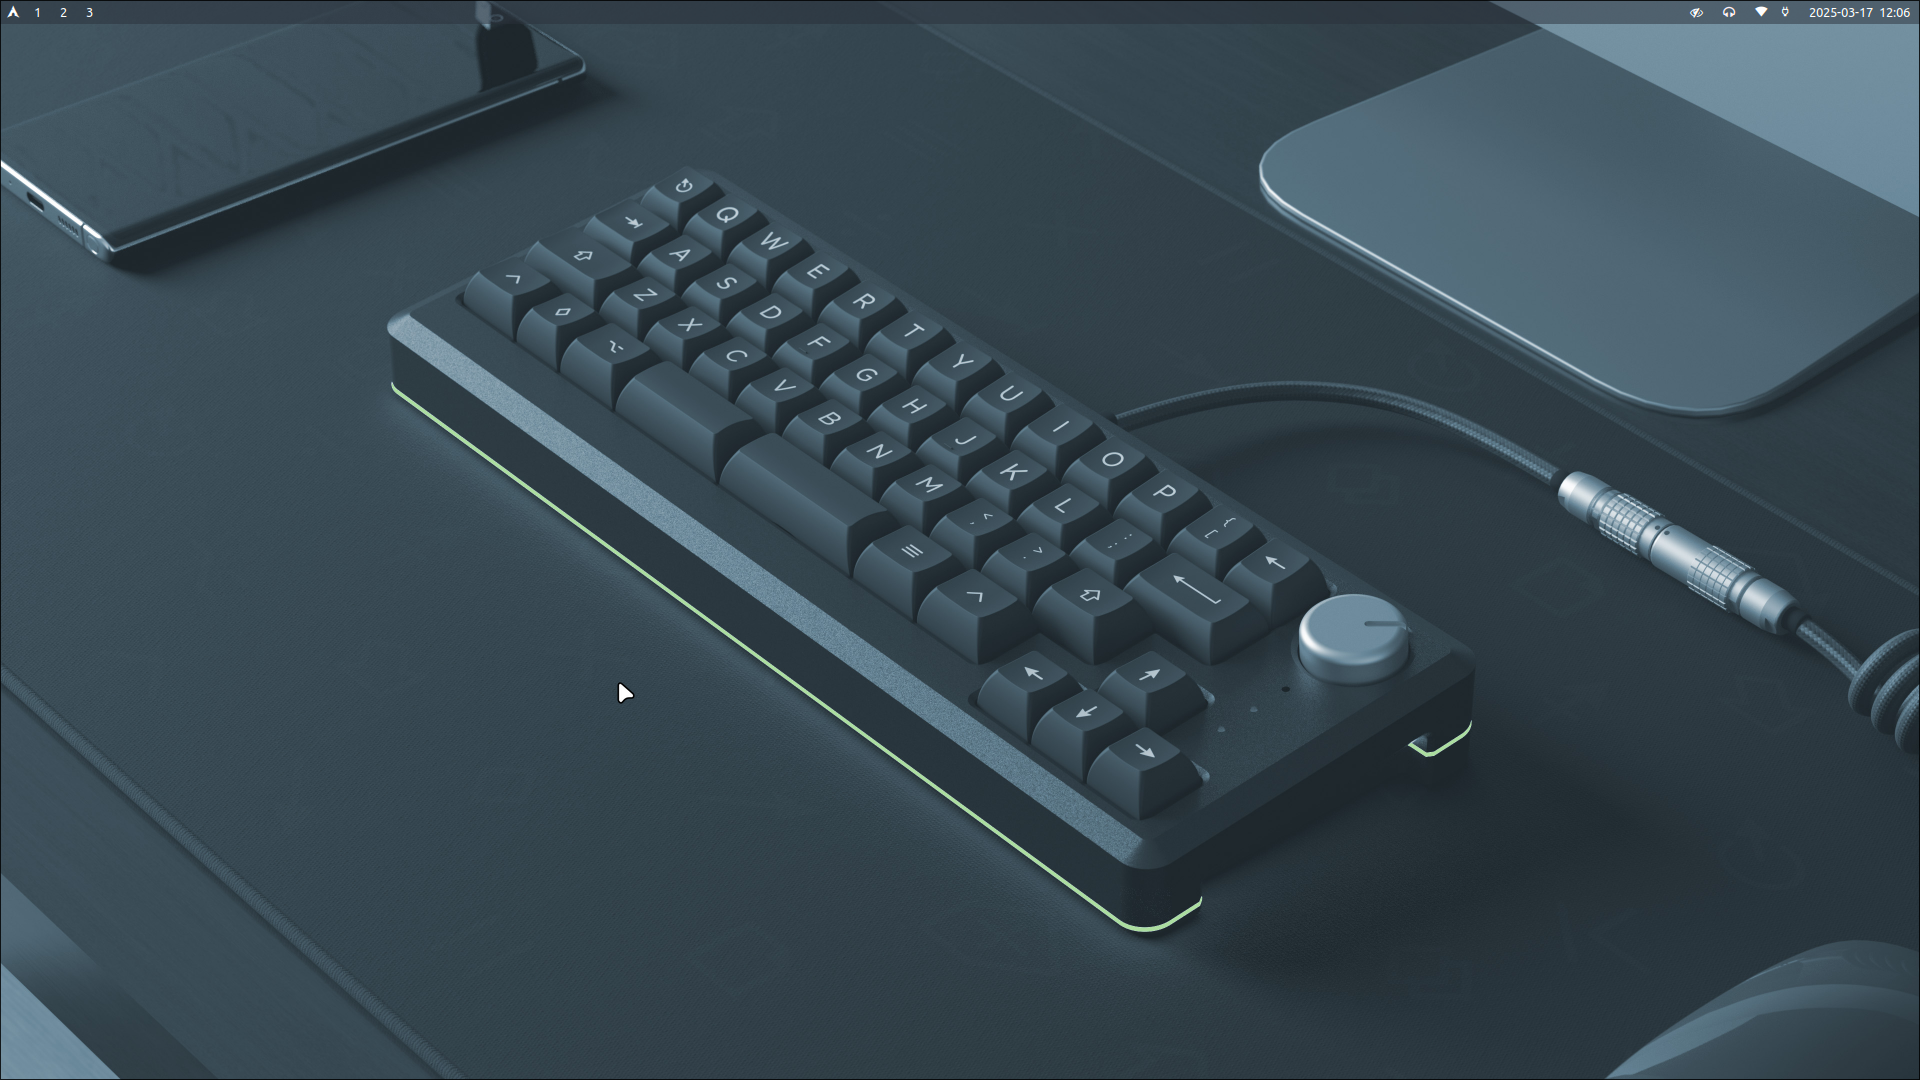
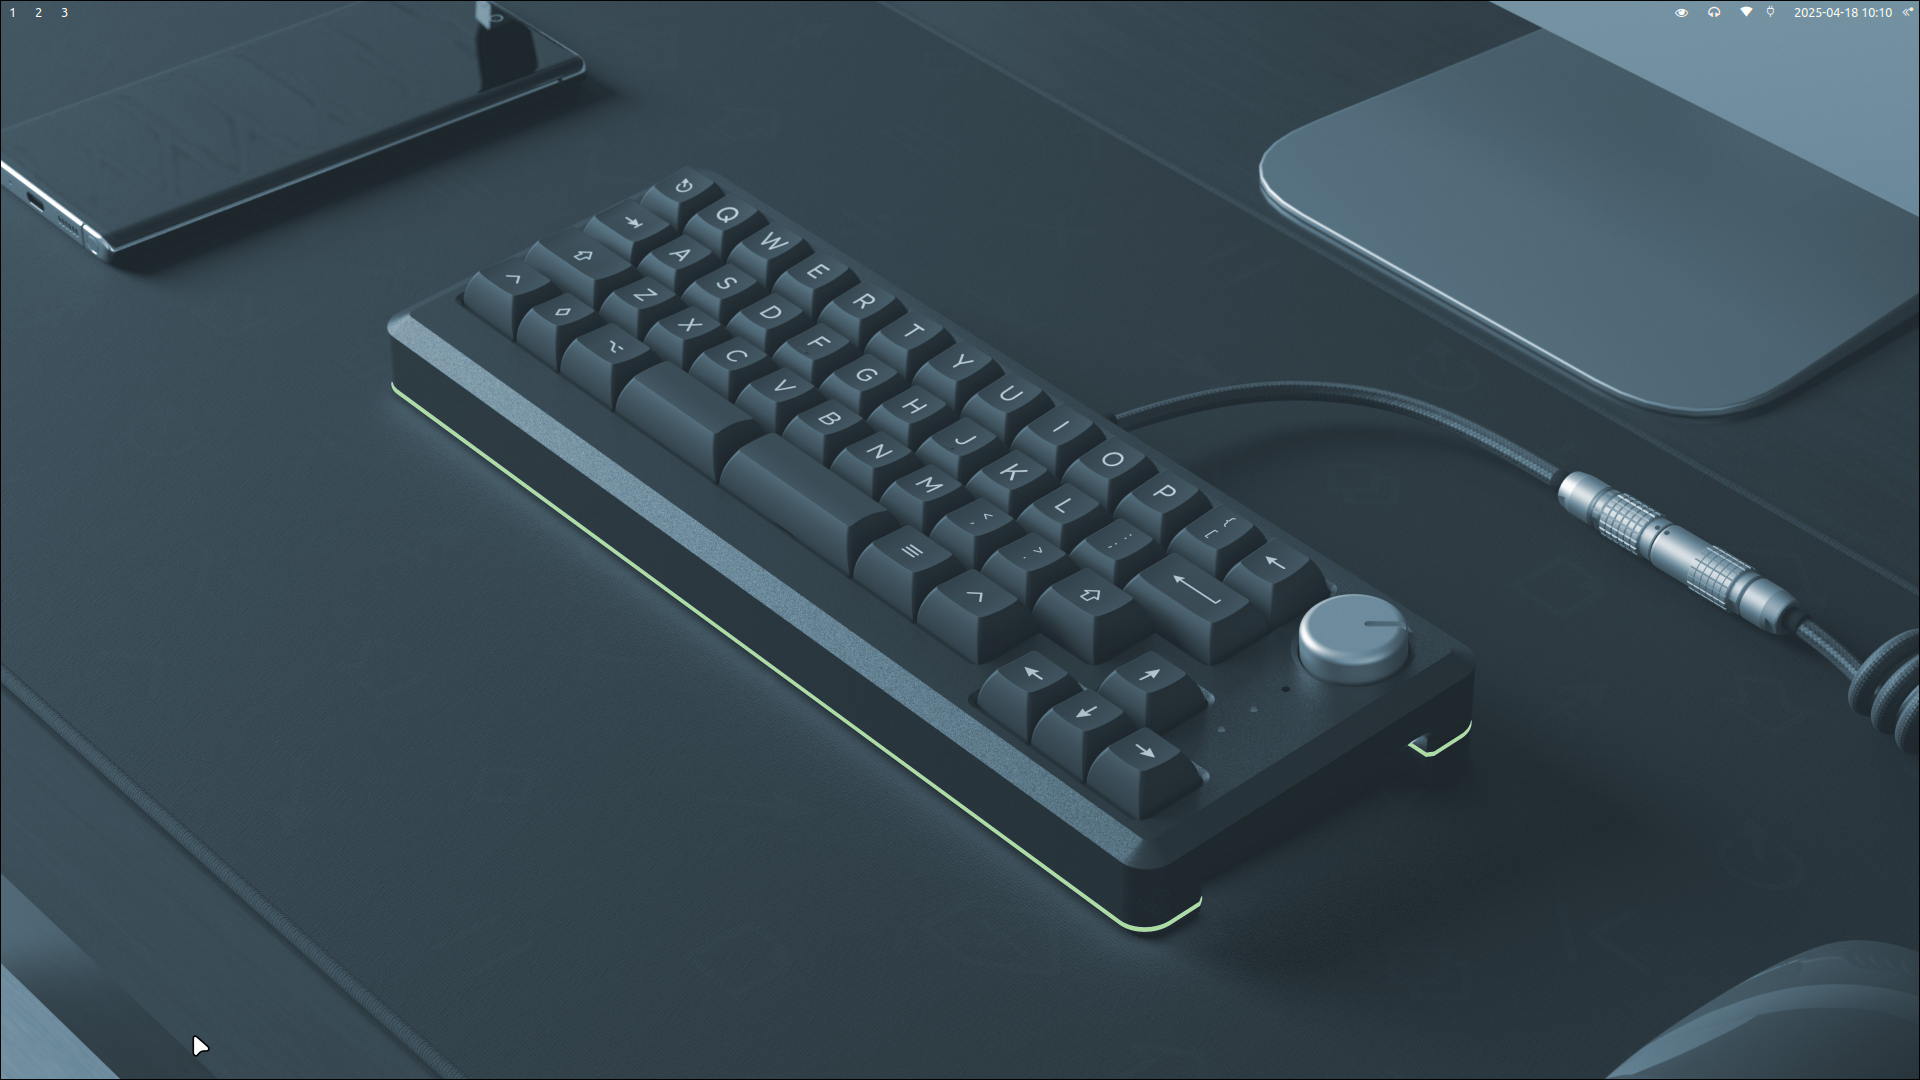
202504181013 updating screenshots

Changed region(s): [[0.7812, 0.0, 1.0, 0.0306], [0.25, 0.0, 0.2812, 0.0306], [0.0938, 0.9472, 0.125, 0.9778]]

diff --git a/.config/waybar/style.css b/.config/waybar/style.css
@@ -10,7 +10,7 @@ window#waybar {
     /* background-color: rgba(43, 48, 59, 0.5); */
     background-color: rgba(0, 0, 0, 0.0);
     /* border-bottom: 0px solid rgba(100, 114, 125, 0.5); */
-    /* color: #acacac; */
+    /* color: #ffffff; */
     transition-property: background-color;
     transition-duration: .5s;
 }
@@ -258,7 +258,7 @@ label:focus {
 
 #idle_inhibitor.activated {
     background-color: transparent;
-    color: #acacac;
+    color: #ffffff;
 }
 
 #mpd {
